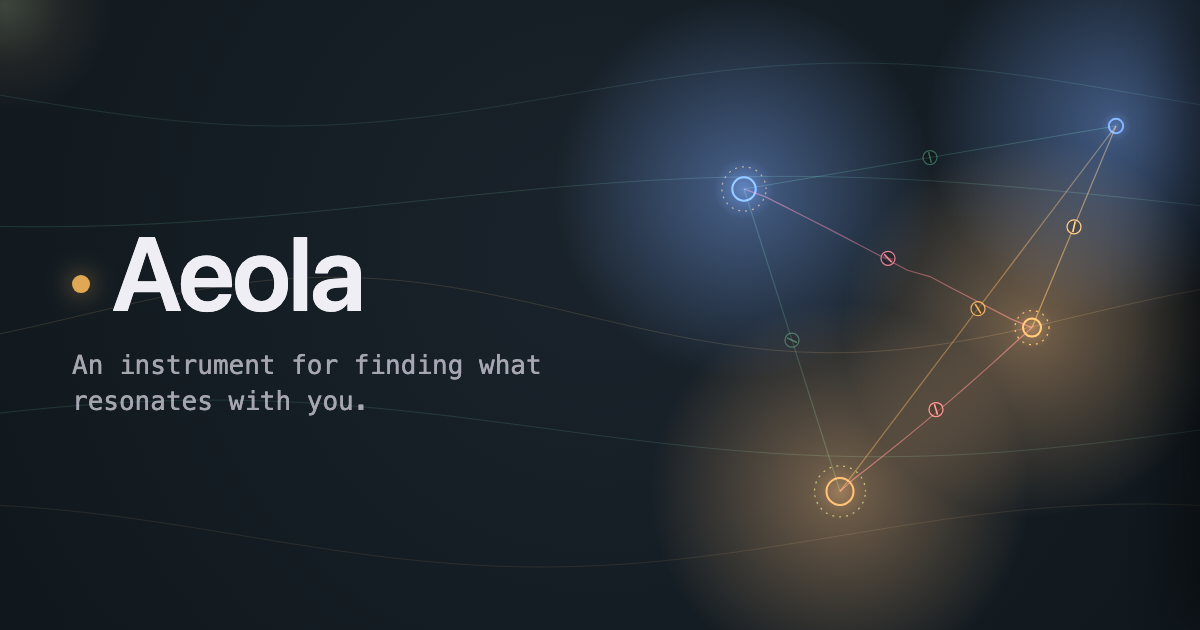
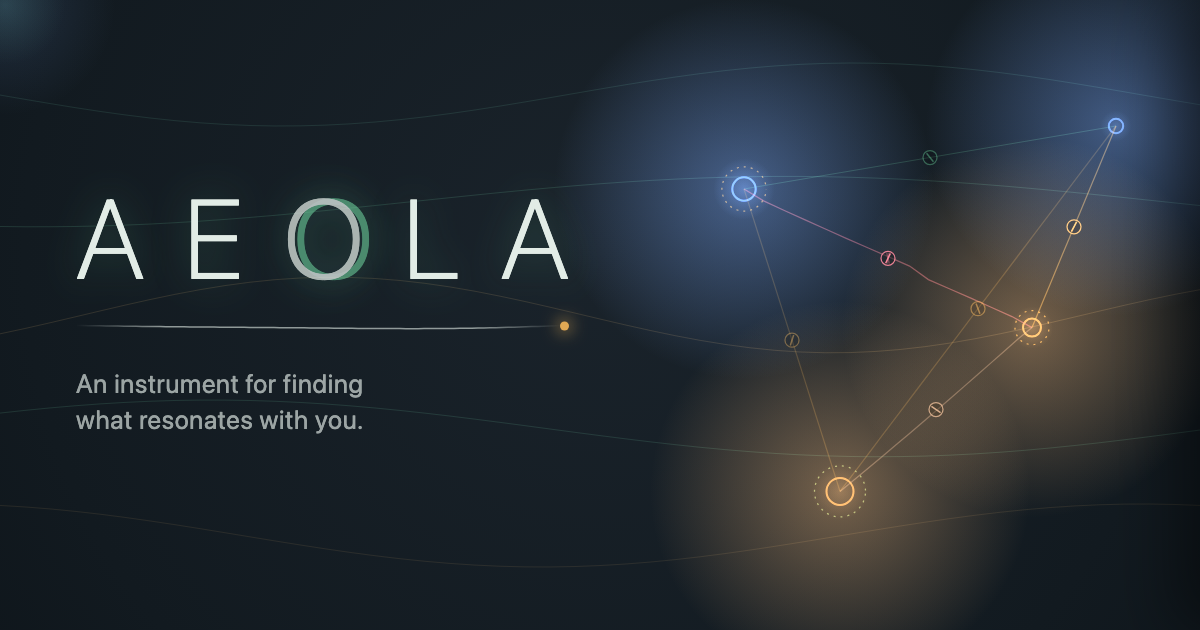
v36: link-preview image uses the new title

diff --git a/js/version.js b/js/version.js
@@ -2,5 +2,5 @@
 // footer, console) and the service worker (sw.js imports this file), whose
 // offline cache is named after the version — so bumping it is also what
 // makes phones fetch the new build instead of replaying the cached one.
-var AEOLA_VERSION = "v35";
+var AEOLA_VERSION = "v36";
 var AEOLA_BUILD_DATE = "1 October 2026";
